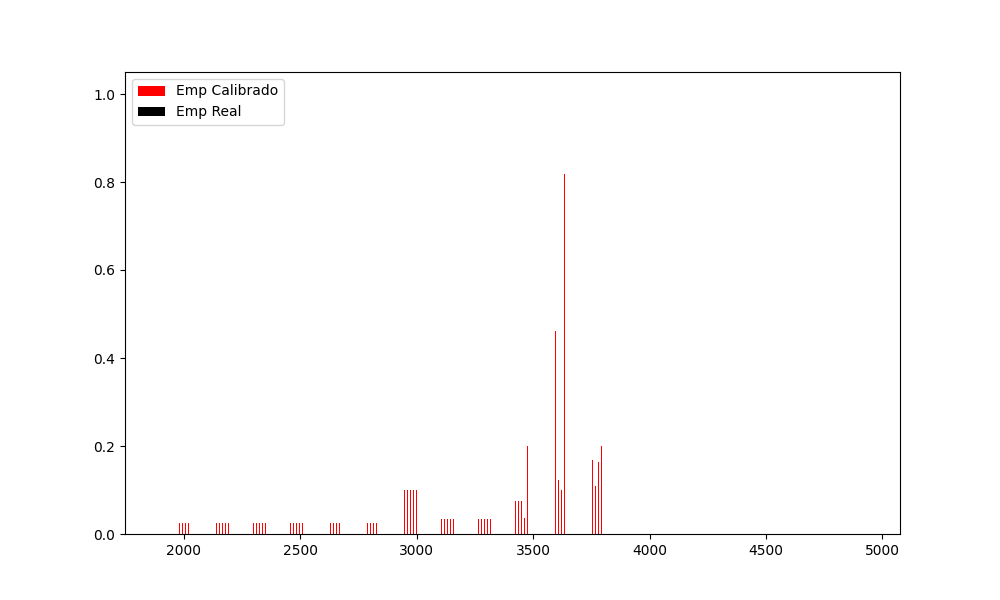
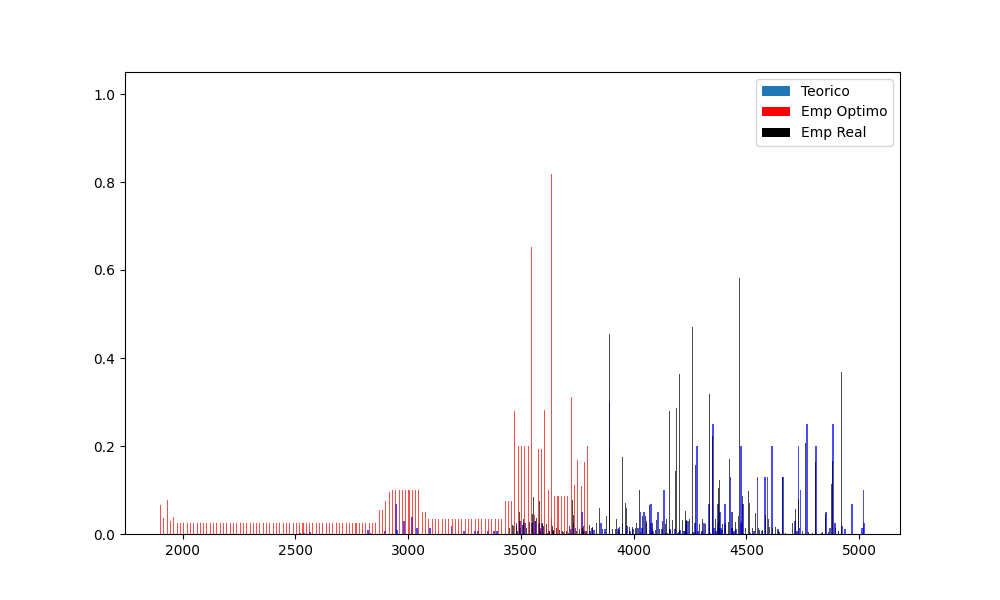
Incorporacion de generacion de graficos de barras 'Teorico X Optimo X Real'

Changed region(s): [[0.155, 0.66, 0.899, 0.93], [0.744, 0.12, 0.899, 0.24], [0.124, 0.12, 0.279, 0.21]]

diff --git a/DTWPorVentanasEmp(pic).py b/DTWPorVentanasEmp(pic).py
@@ -9,6 +9,7 @@ De cada archivo almacenar:
 - IoU mejor ventana
 """
 import os
+import mplcursors
 import numpy as np
 from DTW import DTW
 from IOU import IoU
@@ -160,17 +161,38 @@ for filename in tqdm(FILES, desc=f'Porcentaje de avance'):
     # Ajusta el tamaño de la figura
     plt.figure(figsize=(10, 6))
     
-    # Graficar la señal y los picos
-    print([obs_long_min,obs_long_max])
-    plt.bar(best_calibration.arr_X, best_calibration.arr_Y, label='Emp Calibrado', alpha=1, color='red', linewidth=2)
-    plt.plot(obs_calib_real, obs_y, label='Emp Real', alpha=1, color='black', linewidth=2)
-    # Falta la funcion
-    #plt.plot(obs_x, obs_y, label='Empirico', alpha=1, color='black', linewidth=0.5, linestyle='--')
-
+    # Grafica una seccion del teorico
+    min_teo_grap = best_calibration.arr_X[0] if best_calibration.arr_X[0] < obs_calib_real[0] else obs_calib_real[0]
+    min_teo_grap -= W_STEP
+    max_teo_grap = best_calibration.arr_X[-1] if best_calibration.arr_X[-1] > obs_calib_real[-1] else obs_calib_real[-1]
+    max_teo_grap += W_STEP
+    grap_teo_x, grap_teo_y, _, _ = subconj_generator(teo_x, teo_y, min_teo_grap, max_teo_grap)
+    # Iterar sobre los datos y dibujar barras
+    plt.bar([], [], width=0, label='Teorico', color='blue', align='edge', alpha=1)
+    for x, y in zip(grap_teo_x, grap_teo_y):
+        # Dibujar la barra desde 0 hasta el punto (x, y)
+        plt.bar([x], [y], width=8, align='edge', color='blue', alpha=0.7)
+    #plt.plot(grap_teo_x, grap_teo_y, label='Teorico', alpha=1, color='blue', linewidth=0.5, linestyle='--')
+    
+    # Grafica el calibrado
+    plt.bar([0], [0], width=0, label='Emp Optimo', color='red', align='edge', alpha=1)
+    for x, y in zip(best_calibration.arr_X, best_calibration.arr_Y):
+        # Dibujar la barra desde 0 hasta el punto (x, y)
+        plt.bar([x], [y], width=2, align='edge', color='red', alpha=0.7)
+    #plt.plot(best_calibration.arr_X, best_calibration.arr_Y, label='Emp Calibrado', alpha=1, color='red', linewidth=0.5, linestyle='--')
+    
+    # Grafica el empirico real
+    plt.bar([0], [0], width=0, label='Emp Real', color='black', align='edge', alpha=1)
+    for x, y in zip(obs_calib_real, obs_y):
+        # Dibujar la barra desde 0 hasta el punto (x, y)
+        plt.bar([x], [y], width=1, align='edge', color='black', alpha=0.7)
+    #plt.plot(obs_calib_real, obs_y, label='Emp Real', alpha=1, color='black', linewidth=0.5, linestyle='--')
+        
+    mplcursors.cursor(hover=True) # Activar mplcursors
     plt.legend()
     save_location = os.path.join(SAVEPATH, f'{filename}_Graph.png')
     plt.savefig(save_location)
-    plt.show()
+    #plt.show()
     plt.close()
 
     
